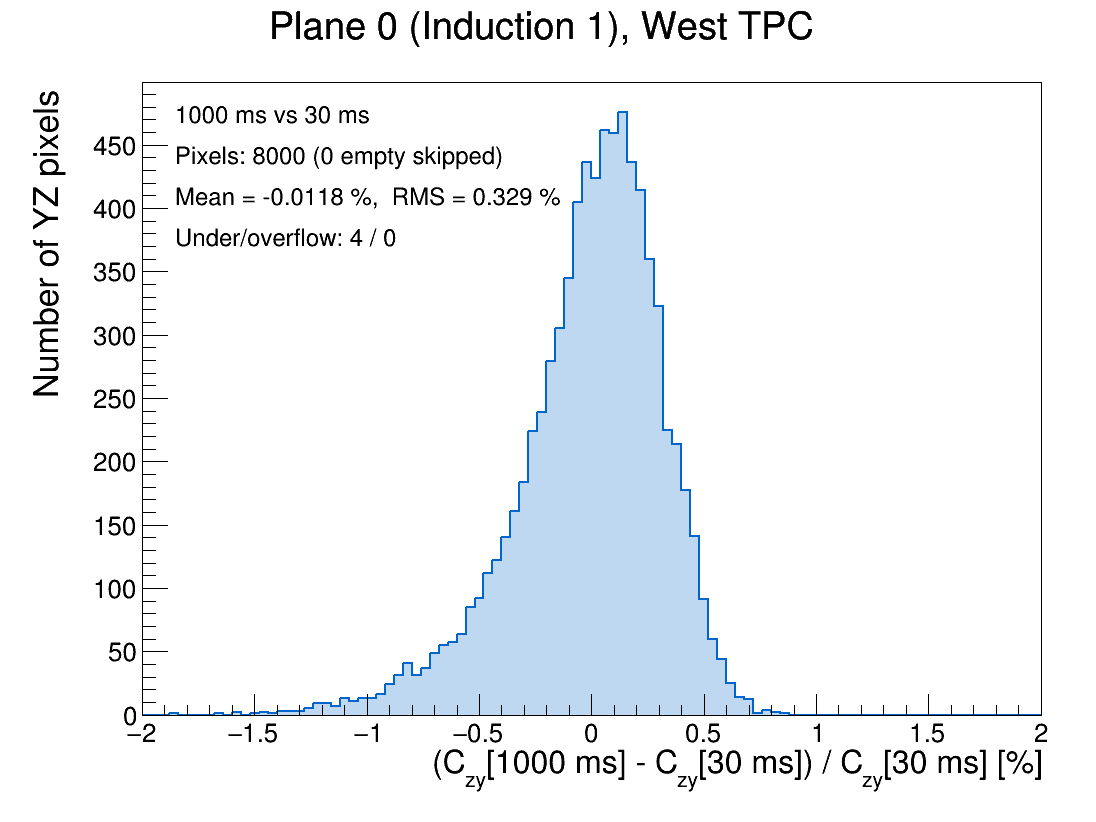
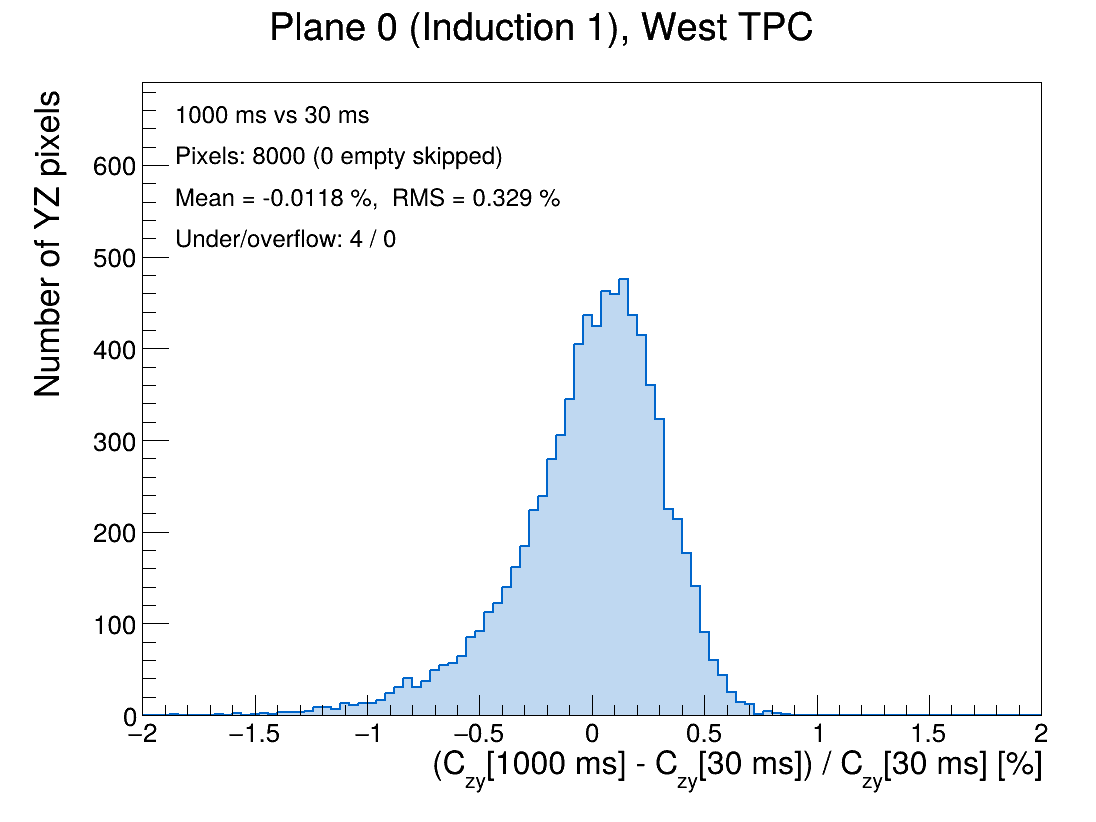
generated plots for ms lifetime

diff --git a/src/compare_czy_percent_diff.C b/src/compare_czy_percent_diff.C
@@ -6,8 +6,12 @@
 //
 //     % diff = (Czy_new - Czy_ref) / Czy_ref * 100
 //
+// and the signed difference (no units, Czy is a ratio):
+//
+//     diff = Czy_new - Czy_ref
+//
 // One entry per YZ pixel. Pixels that are empty (0) in either file are skipped.
-// One histogram per plane and TPC (6 in total), all with the same binning.
+// One histogram per plane and TPC (6 for % diff, 6 for diff). Each set of 6 shares its binning.
 //
 // Usage (from src/):
 //   root -l -b -q 'compare_czy_percent_diff.C("<ref file>", "<new file>")'
@@ -17,10 +21,11 @@
 //   range                : x-axis goes from -range to +range in %. <= 0 means automatic.
 //   nbins                : number of bins (default 100)
 //   out_dir              : where the ROOT file and PNGs go
+//   range_diff           : like range, but for the Czy_new - Czy_ref plots. <= 0 means automatic.
 //
 // Output:
-//   <out_dir>/czy_pdiff_<new>_vs_<ref>.root          6 histograms
-//   <out_dir>/czy_pdiff_<new>_vs_<ref>/*.png          one PNG per plane/TPC + one summary PNG
+//   <out_dir>/czy_pdiff_<new>_vs_<ref>.root          12 histograms (pdiff_* and diff_*)
+//   <out_dir>/czy_pdiff_<new>_vs_<ref>/*.png          one PNG per plane/TPC + one summary PNG, for each set
 
 #include <TFile.h>
 #include <TH1.h>
@@ -91,6 +96,21 @@ std::vector<double> pdiff_values(TH2* h_ref, TH2* h_new, int& n_skipped)
   return v;
 }
 
+// Signed differences Czy_new - Czy_ref. Skips the same pixels as pdiff_values.
+std::vector<double> diff_values(TH2* h_ref, TH2* h_new)
+{
+  std::vector<double> v;
+  for (int ix = 1; ix <= h_ref->GetNbinsX(); ix++) {
+    for (int iy = 1; iy <= h_ref->GetNbinsY(); iy++) {
+      double ref = h_ref->GetBinContent(ix, iy);
+      double nw  = h_new->GetBinContent(ix, iy);
+      if (ref == 0 || nw == 0 || !std::isfinite(ref) || !std::isfinite(nw)) continue;
+      v.push_back(nw - ref);
+    }
+  }
+  return v;
+}
+
 // A "nice" round number >= x (1, 2, 5, 10, 20, 50, ...).
 double pdiff_nice_ceil(double x)
 {
@@ -106,7 +126,8 @@ void compare_czy_percent_diff(const char* ref_file,
                               const char* label_new = "",
                               double range = -1,
                               int nbins = 100,
-                              const char* out_dir = "../output_files/run_2_sample")
+                              const char* out_dir = "../output_files/run_2_sample",
+                              double range_diff = -1)
 {
   TFile* f_ref = TFile::Open(ref_file, "READ");
   TFile* f_new = TFile::Open(new_file, "READ");
@@ -125,6 +146,7 @@ void compare_czy_percent_diff(const char* ref_file,
 
   // 1) Collect percent differences for all 6 maps.
   std::vector<double> vals[3][2];
+  std::vector<double> dvals[3][2];
   int skipped[3][2] = {{0}};
   int total[3][2]   = {{0}};
   std::vector<double> all_abs;
@@ -139,6 +161,7 @@ void compare_czy_percent_diff(const char* ref_file,
     }
     total[l][k] = h_ref->GetNbinsX() * h_ref->GetNbinsY();
     vals[l][k] = pdiff_values(h_ref, h_new, skipped[l][k]);
+    dvals[l][k] = diff_values(h_ref, h_new);
     for (double x : vals[l][k]) all_abs.push_back(std::fabs(x));
   }
 
@@ -183,6 +206,7 @@ void compare_czy_percent_diff(const char* ref_file,
     TCanvas c("c_pdiff", "", 1100, 850);
     c.SetLeftMargin(0.13); c.SetBottomMargin(0.13); c.SetRightMargin(0.05);
     h->GetXaxis()->SetTitleSize(0.042); h->GetYaxis()->SetTitleSize(0.045);
+    h->SetMaximum(1.45 * h->GetMaximum());  // headroom for the text (same as the diff plots)
     h->Draw("HIST");
     TLatex t; t.SetNDC(); t.SetTextFont(42); t.SetTextSize(0.032);
     t.DrawLatex(0.16, 0.85, Form("%s vs %s", lab_new.Data(), lab_ref.Data()));
@@ -202,6 +226,64 @@ void compare_czy_percent_diff(const char* ref_file,
     hists[l][k]->Draw("HIST");
   }
   cs.SaveAs(Form("%s/pdiff_CzyHist_summary.png", out_png.Data()));
+
+  // 4) Same again for the signed difference Czy_new - Czy_ref.
+  if (range_diff <= 0) {
+    std::vector<double> all_abs_diff;
+    for (int l = 0; l < 3; l++) for (int k = 0; k < 2; k++)
+      for (double x : dvals[l][k]) all_abs_diff.push_back(std::fabs(x));
+    std::sort(all_abs_diff.begin(), all_abs_diff.end());
+    double q99 = all_abs_diff[(size_t)std::floor(0.99 * (all_abs_diff.size() - 1))];
+    range_diff = pdiff_nice_ceil(1.1 * q99);
+  }
+  std::cout << "\nDifference x-axis range: -" << range_diff << " to +" << range_diff << ", " << nbins
+            << " bins (" << 2 * range_diff / nbins << " per bin)" << std::endl;
+
+  TH1D* dhists[3][2] = {{nullptr}};
+  TString dxtitle = Form("C_{zy}[%s] - C_{zy}[%s]", lab_new.Data(), lab_ref.Data());
+
+  printf("\n%-24s %-9s %8s %8s %12s %12s %8s %8s\n", "Plane", "TPC", "pixels", "skipped", "mean", "RMS", "under", "over");
+  for (int l = 0; l < 3; l++) for (int k = 0; k < 2; k++) {
+    if (total[l][k] == 0) continue;
+    TH1D* h = new TH1D(Form("diff_CzyHist_%i_%i", l, k),
+                       Form("%s, %s;%s;Number of YZ pixels", pdiff_plane_name(l), pdiff_tpc_name(k), dxtitle.Data()),
+                       nbins, -range_diff, range_diff);
+    for (double x : dvals[l][k]) h->Fill(x);
+    h->SetLineWidth(2);
+    h->SetLineColor(kAzure + 2);
+    h->SetFillColorAlpha(kAzure + 2, 0.25);
+    f_out->cd();
+    h->Write();
+    dhists[l][k] = h;
+
+    double mean = TMath::Mean(dvals[l][k].begin(), dvals[l][k].end());
+    double rms  = TMath::RMS(dvals[l][k].begin(), dvals[l][k].end());
+    printf("%-24s %-9s %8zu %8d %12.3e %12.3e %8.0f %8.0f\n", pdiff_plane_name(l), pdiff_tpc_name(k),
+           dvals[l][k].size(), skipped[l][k], mean, rms, h->GetBinContent(0), h->GetBinContent(nbins + 1));
+
+    TCanvas c("c_diff", "", 1100, 850);
+    c.SetLeftMargin(0.13); c.SetBottomMargin(0.13); c.SetRightMargin(0.05);
+    h->GetXaxis()->SetTitleSize(0.042); h->GetYaxis()->SetTitleSize(0.045);
+    h->GetXaxis()->SetMaxDigits(5); h->GetXaxis()->SetNdivisions(505);  // plain decimals, no x10^-3
+    h->SetMaximum(1.45 * h->GetMaximum());  // headroom for the text
+    h->Draw("HIST");
+    TLatex t; t.SetNDC(); t.SetTextFont(42); t.SetTextSize(0.032);
+    t.DrawLatex(0.16, 0.85, Form("%s vs %s", lab_new.Data(), lab_ref.Data()));
+    t.DrawLatex(0.16, 0.80, Form("Pixels: %zu (%d empty skipped)", dvals[l][k].size(), skipped[l][k]));
+    t.DrawLatex(0.16, 0.75, Form("Mean = %.3g,  RMS = %.3g", mean, rms));
+    t.DrawLatex(0.16, 0.70, Form("Under/overflow: %.0f / %.0f", h->GetBinContent(0), h->GetBinContent(nbins + 1)));
+    c.SaveAs(Form("%s/diff_CzyHist_%i_%i.png", out_png.Data(), l, k));
+  }
+
+  TCanvas cd("c_diff_summary", "", 1400, 1600);
+  cd.Divide(2, 3);
+  for (int l = 0; l < 3; l++) for (int k = 0; k < 2; k++) {
+    if (!dhists[l][k]) continue;
+    cd.cd(l * 2 + k + 1);
+    gPad->SetLeftMargin(0.14); gPad->SetBottomMargin(0.15);
+    dhists[l][k]->Draw("HIST");
+  }
+  cd.SaveAs(Form("%s/diff_CzyHist_summary.png", out_png.Data()));
 
   f_out->Close();
   f_ref->Close();
